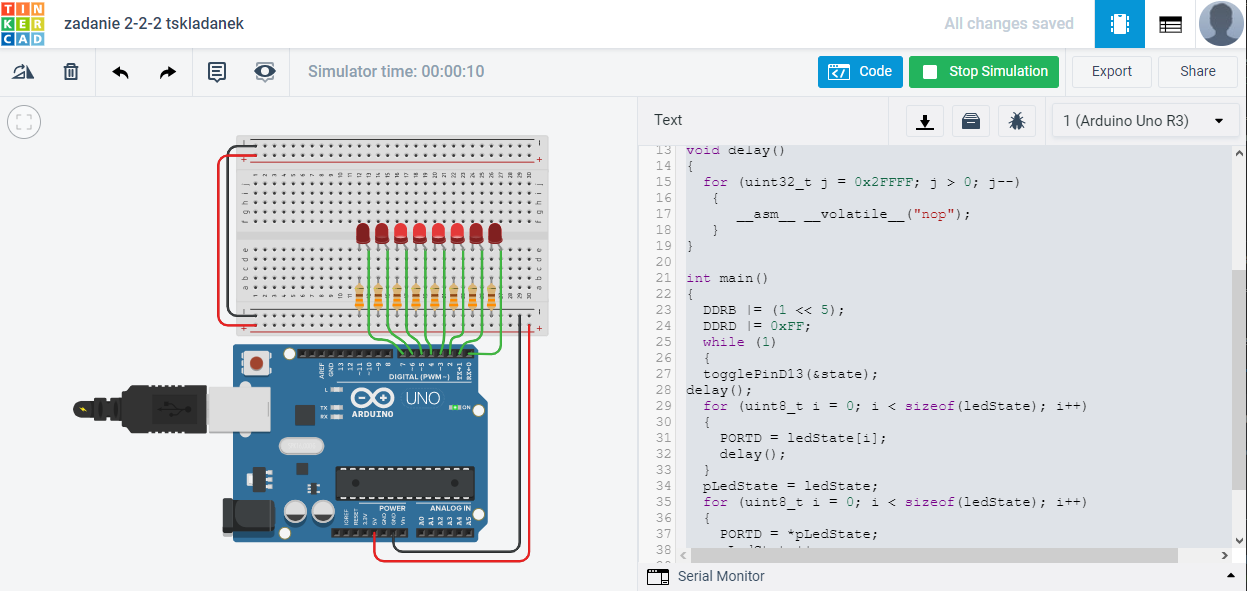
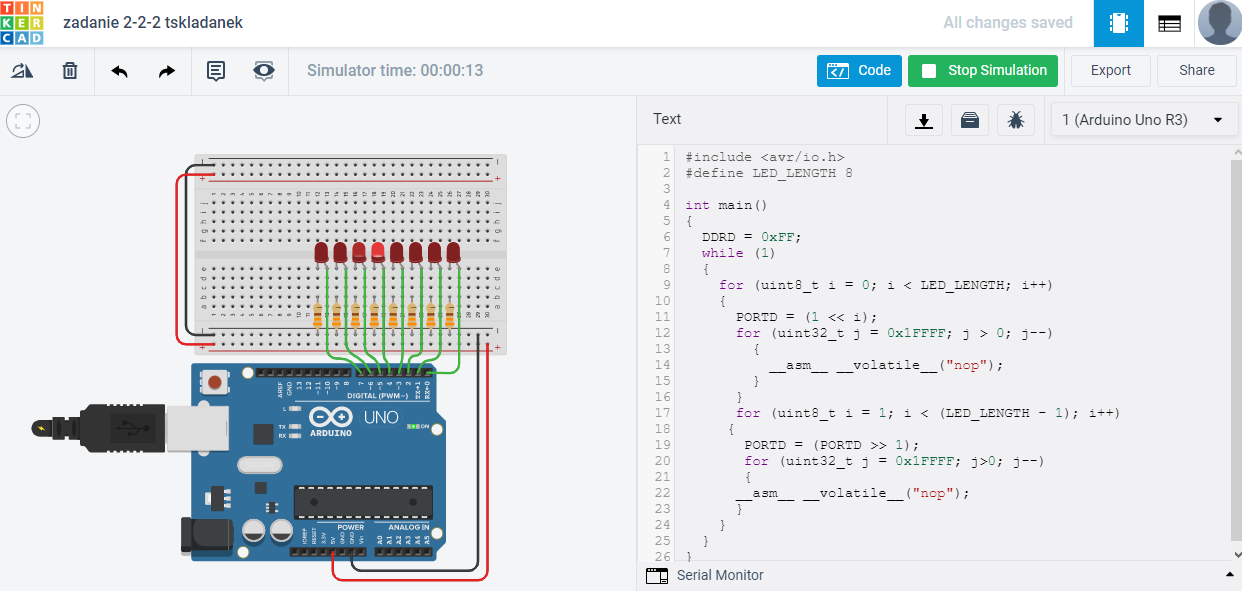
Wykonano  zadanie 2.2.3–wskaźniki

diff --git a/Zadanie 2-2/src/main.cpp b/Zadanie 2-2/src/main.cpp
@@ -1,26 +1,42 @@
 #include <avr/io.h>
-#define LED_LENGTH 8
+
+uint8_t ledState[] = {0xFF, 0x7E, 0x3C, 0x18, 0x00, 0x18, 0x3C, 0x7E};
+uint8_t *pLedState = ledState;
+bool state = true;
+
+void togglePinD13(bool *state)
+{
+  PORTB = (*state << 5);
+  *state = !(*state);
+}
+
+void delay()
+{
+  for (uint32_t j = 0x2FFFF; j > 0; j--)
+   {
+      __asm__ __volatile__("nop");
+   }
+}
 
 int main()
 {
-  DDRD = 0xFF;
+  DDRB |= (1 << 5);
+  DDRD |= 0xFF;
   while (1)
   {
-    for (uint8_t i = 0; i < LED_LENGTH; i++)
-    {
-      PORTD = (1 << i);
-      for (uint32_t j = 0x1FFFF; j > 0; j--)
-        {
-          __asm__ __volatile__("nop");
-        }
-      }
-      for (uint8_t i = 1; i < (LED_LENGTH - 1); i++)
-     {
-       PORTD = (PORTD >> 1);
-       for (uint32_t j = 0x1FFFF; j>0; j--)
-       {
-      __asm__ __volatile__("nop");
-      }
-    }
+  togglePinD13(&state);
+delay();
+  for (uint8_t i = 0; i < sizeof(ledState); i++)
+  {
+    PORTD = ledState[i];
+    delay();
+  }
+  pLedState = ledState;
+  for (uint8_t i = 0; i < sizeof(ledState); i++)
+  {
+    PORTD = *pLedState;
+    pLedState++;
+    delay();
+   }
   }
 }
